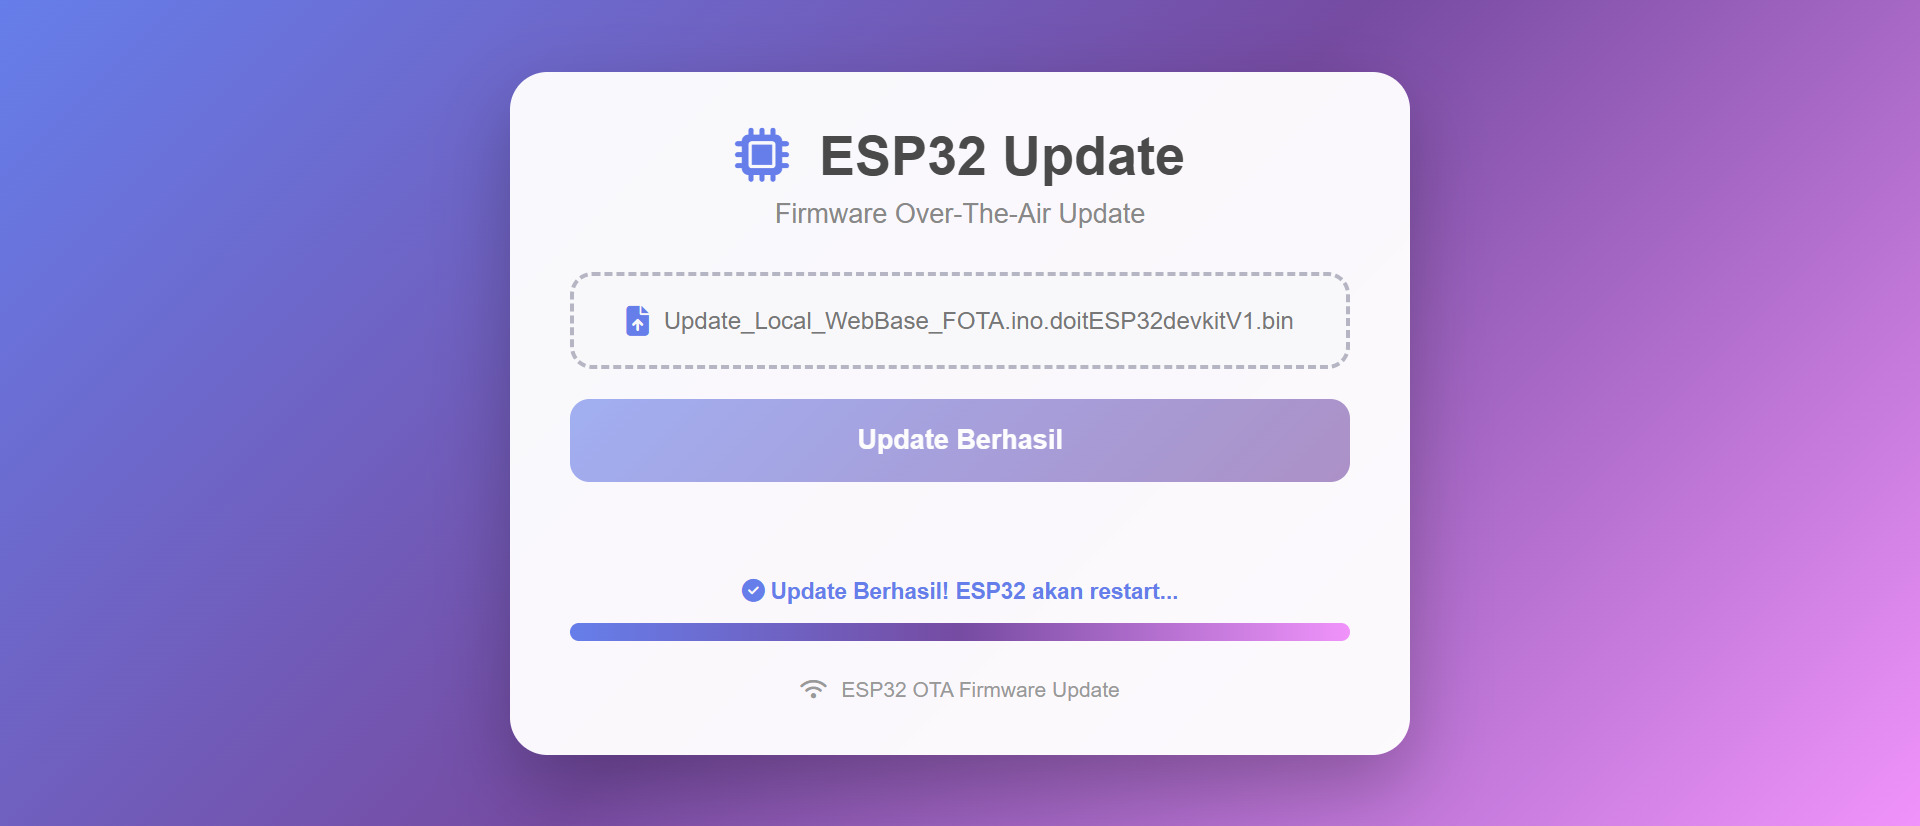
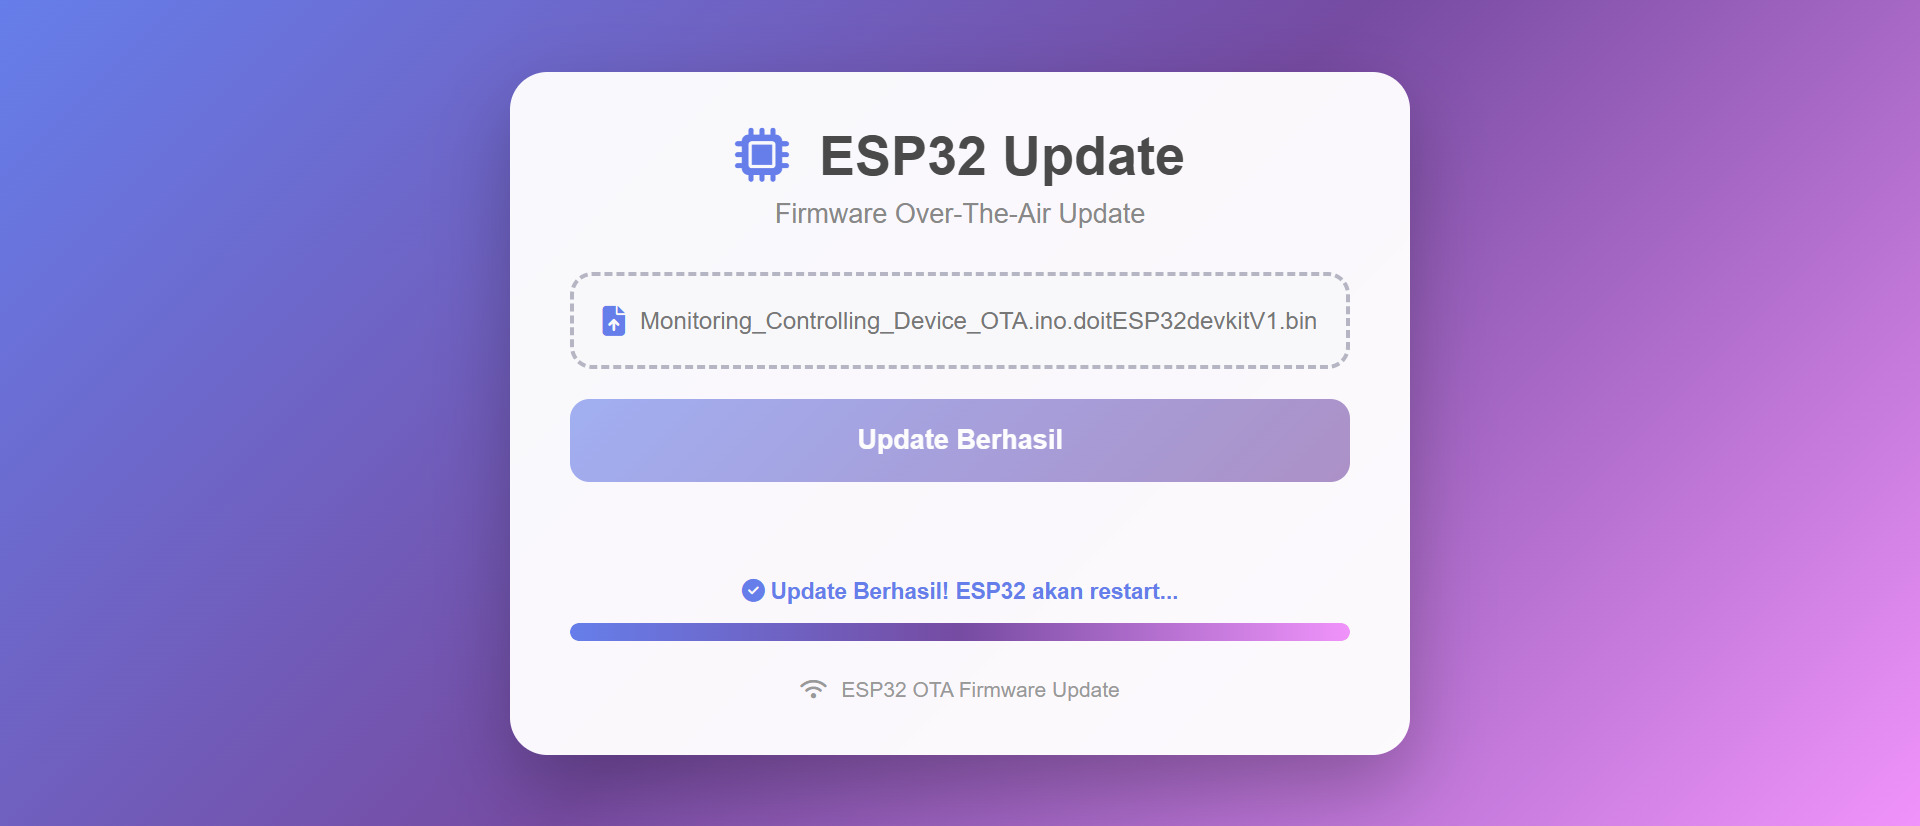
docs: update BACA.md, README.md, & Assets

Changed region(s): [[0.3125, 0.3632, 0.6875, 0.4237]]

diff --git a/BACA.md b/BACA.md
@@ -90,11 +90,13 @@ Sistem pemantauan, pengendalian, dan pengelolaan firmware IoT berbasis web — m
 
 <table>
 <tr>
-<th width="840" colspan="2">Masuk Web Server</th>
+<th width="840" colspan="4">Masuk Web Server</th>
 </tr>
 <tr>
-<td width="420" align="center"><img src="Assets/Documentation/Experiment/Login.jpg" alt="login"></td>
-<td width="420" align="center"><img src="Assets/Documentation/Experiment/Invalid Login.jpg" alt="invalid-login"></td>
+<td width="210" align="center"><img src="Assets/Documentation/Experiment/Login (Initial Firmware).jpg" alt="login-firmware-init"></td>
+<td width="210" align="center"><img src="Assets/Documentation/Experiment/Invalid Login (Initial Firmware).jpg" alt="invalid-login-firmware-init"></td>
+<td width="210" align="center"><img src="Assets/Documentation/Experiment/Login (Controlling-Monitoring Device).jpg" alt="login-controlling-monitoring-device"></td>
+<td width="210" align="center"><img src="Assets/Documentation/Experiment/Invalid Login (Controlling-Monitoring Device).jpg" alt="invalid-login-controlling-monitoring-device"></td>
 </tr>
 </table>
 <table>

diff --git a/README.md b/README.md
@@ -90,11 +90,13 @@ Web-based IoT monitoring, control, and firmware management system — monitors t
 
 <table>
 <tr>
-<th width="840" colspan="2">Login Web Server</th>
+<th width="840" colspan="4">Login Web Server</th>
 </tr>
 <tr>
-<td width="420" align="center"><img src="Assets/Documentation/Experiment/Login.jpg" alt="login"></td>
-<td width="420" align="center"><img src="Assets/Documentation/Experiment/Invalid Login.jpg" alt="invalid-login"></td>
+<td width="210" align="center"><img src="Assets/Documentation/Experiment/Login (Initial Firmware).jpg" alt="login-firmware-init"></td>
+<td width="210" align="center"><img src="Assets/Documentation/Experiment/Invalid Login (Initial Firmware).jpg" alt="invalid-login-firmware-init"></td>
+<td width="210" align="center"><img src="Assets/Documentation/Experiment/Login (Controlling-Monitoring Device).jpg" alt="login-controlling-monitoring-device"></td>
+<td width="210" align="center"><img src="Assets/Documentation/Experiment/Invalid Login (Controlling-Monitoring Device).jpg" alt="invalid-login-controlling-monitoring-device"></td>
 </tr>
 </table>
 <table>
